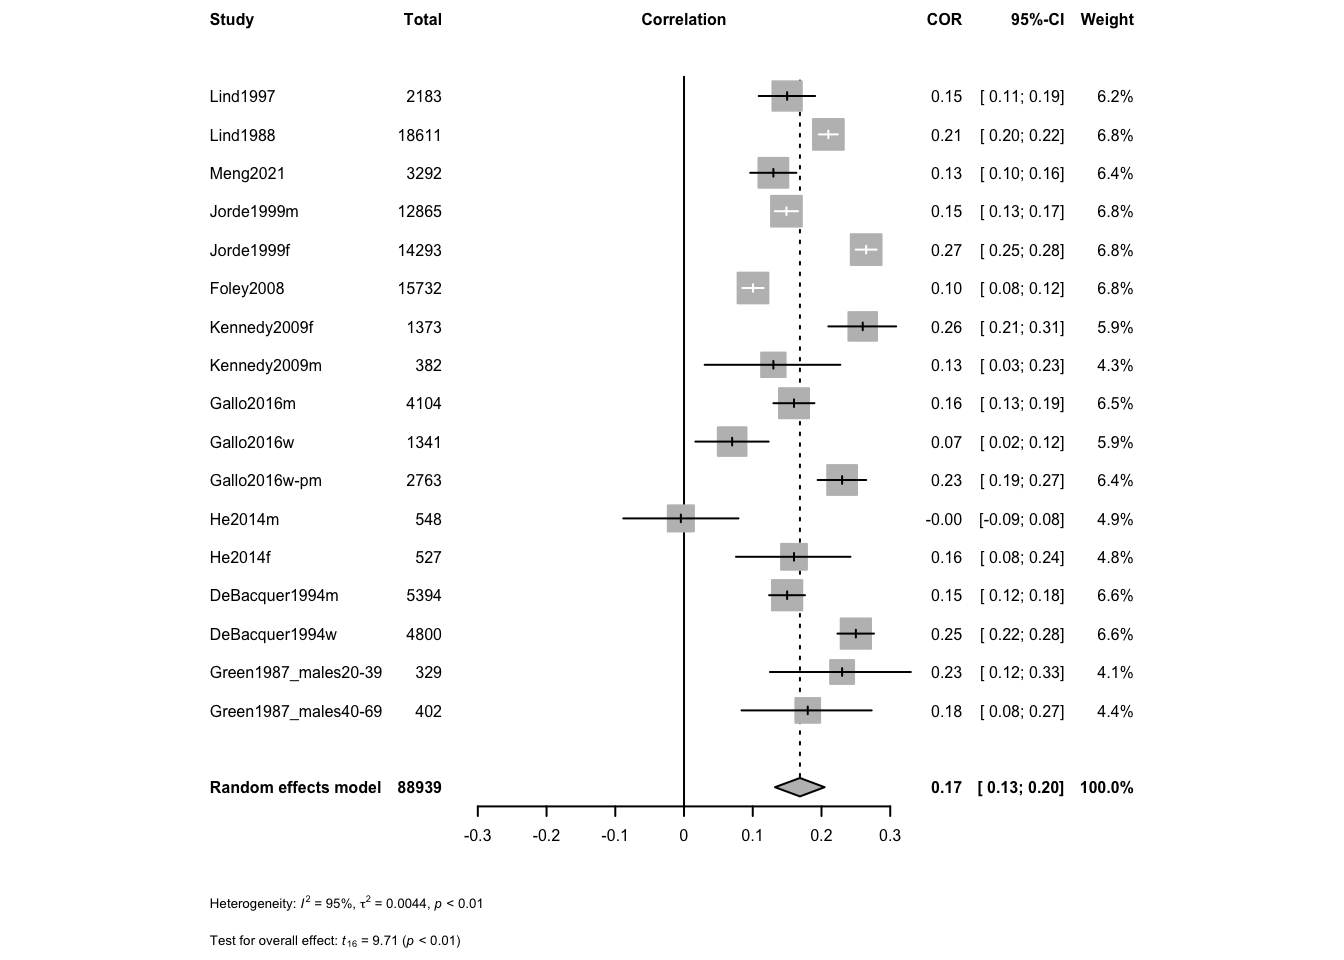
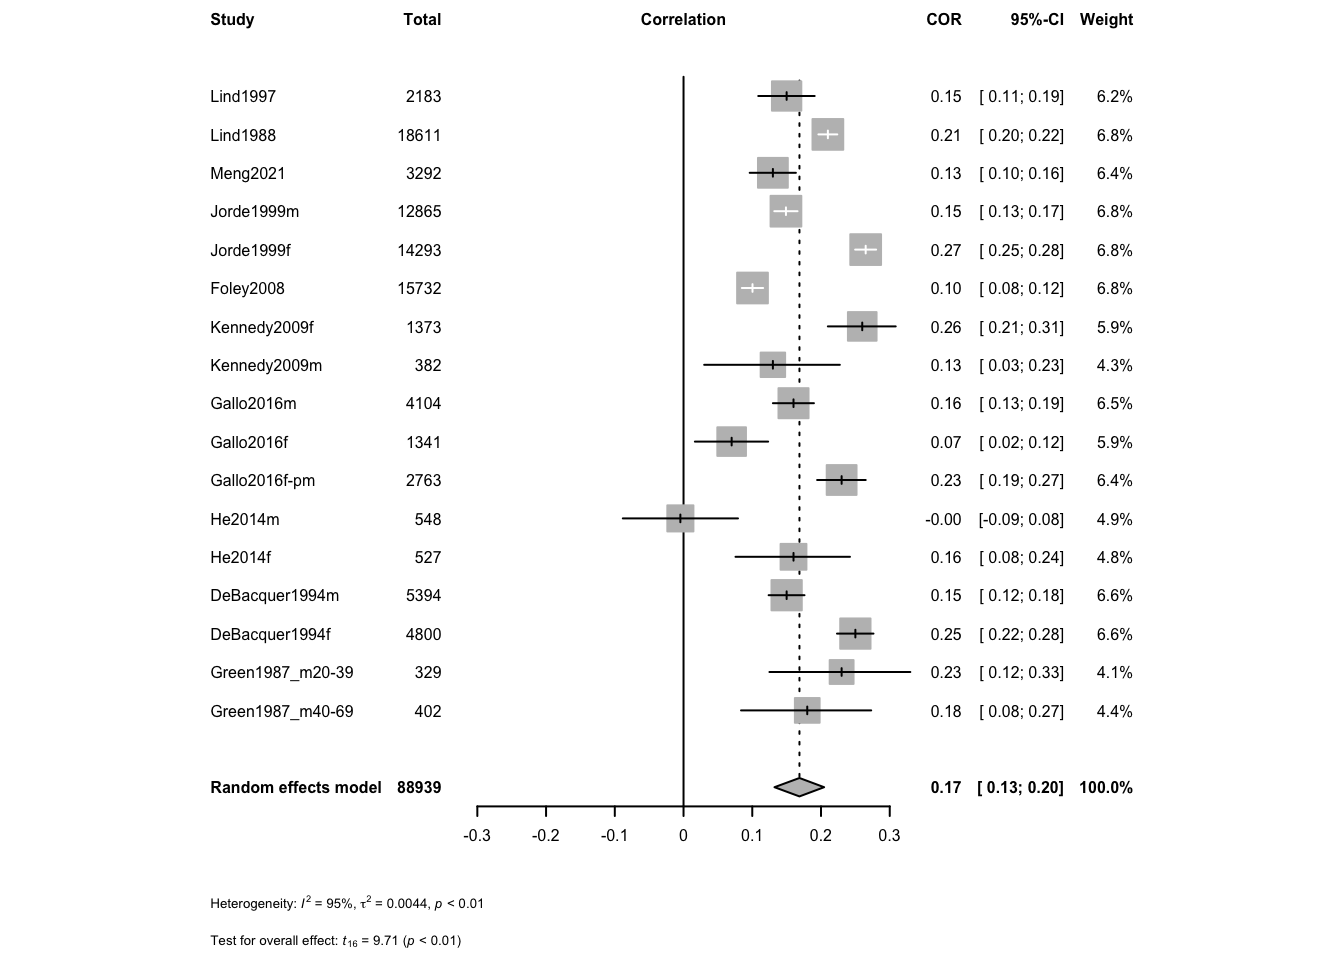
Re-ran meta-analysis updating names of the studies for consistency

diff --git a/Meta Analysis/cholesterol-calcium.html b/Meta Analysis/cholesterol-calcium.html
@@ -151,7 +151,7 @@ code span.wa { color: #60a0b0; font-weight: bold; font-style: italic; } /* Warni
 <span id="cb1-2"><a href="#cb1-2" aria-hidden="true" tabindex="-1"></a><span class="fu">library</span>(readr)</span>
 <span id="cb1-3"><a href="#cb1-3" aria-hidden="true" tabindex="-1"></a>data <span class="ot">&lt;-</span> <span class="fu">read_csv</span>(data.sheet)<span class="co">#from a google sheet</span></span></code><button title="Copy to Clipboard" class="code-copy-button"><i class="bi"></i></button></pre></div>
 </div>
-<p>The data can be found in the google sheet https://docs.google.com/spreadsheets/d/e/2PACX-1vTyvQnc6bLRLGT6QXEMHxiAQVbK_zag_JIAjvYjTMXINcqdkBwglmg_mlj_k9ml9QsrNQl-tZgy8ACl/pub?gid=1100702568&amp;single=true&amp;output=csv. This script can be found in /Users/davebrid/Documents/GitHub/PrecisionNutrition/Meta Analysis and was most recently run on Wed Dec 7 16:34:27 2022</p>
+<p>The data can be found in the google sheet https://docs.google.com/spreadsheets/d/e/2PACX-1vTyvQnc6bLRLGT6QXEMHxiAQVbK_zag_JIAjvYjTMXINcqdkBwglmg_mlj_k9ml9QsrNQl-tZgy8ACl/pub?gid=1100702568&amp;single=true&amp;output=csv. This script can be found in /Users/davebrid/Documents/GitHub/PrecisionNutrition/Meta Analysis and was most recently run on Thu Apr 20 09:18:10 2023</p>
 </section>
 <section id="meta-analysis" class="level2">
 <h2 class="anchored" data-anchor-id="meta-analysis">Meta Analysis</h2>
@@ -186,9 +186,9 @@ code span.wa { color: #60a0b0; font-weight: bold; font-style: italic; } /* Warni
 <div class="cell">
 <div class="sourceCode cell-code" id="cb3"><pre class="sourceCode r code-with-copy"><code class="sourceCode r"><span id="cb3-1"><a href="#cb3-1" aria-hidden="true" tabindex="-1"></a><span class="fu">sessionInfo</span>()</span></code><button title="Copy to Clipboard" class="code-copy-button"><i class="bi"></i></button></pre></div>
 <div class="cell-output cell-output-stdout">
-<pre><code>R version 4.2.0 (2022-04-22)
+<pre><code>R version 4.2.2 (2022-10-31)
 Platform: x86_64-apple-darwin17.0 (64-bit)
-Running under: macOS Big Sur/Monterey 10.16
+Running under: macOS Big Sur ... 10.16
 
 Matrix products: default
 BLAS:   /Library/Frameworks/R.framework/Versions/4.2/Resources/lib/libRblas.0.dylib
@@ -201,24 +201,24 @@ attached base packages:
 [1] stats     graphics  grDevices utils     datasets  methods   base     
 
 other attached packages:
-[1] tidyr_1.2.1 meta_6.0-0  readr_2.1.3 knitr_1.41 
+[1] tidyr_1.3.0 meta_6.1-0  readr_2.1.3 knitr_1.41 
 
 loaded via a namespace (and not attached):
- [1] tidyselect_1.2.0   xfun_0.35          purrr_0.3.5        splines_4.2.0     
- [5] lattice_0.20-45    vctrs_0.5.1        generics_0.1.3     htmltools_0.5.3   
+ [1] tidyselect_1.2.0   xfun_0.36          purrr_1.0.1        splines_4.2.2     
+ [5] lattice_0.20-45    vctrs_0.5.2        generics_0.1.3     htmltools_0.5.4   
  [9] yaml_2.3.6         utf8_1.2.2         rlang_1.0.6        pillar_1.8.1      
 [13] nloptr_2.0.3       DBI_1.1.3          glue_1.6.2         bit64_4.0.5       
-[17] lifecycle_1.0.3    stringr_1.4.1      htmlwidgets_1.5.4  evaluate_0.18     
-[21] tzdb_0.3.0         fastmap_1.1.0      metafor_3.8-1      parallel_4.2.0    
+[17] lifecycle_1.0.3    stringr_1.5.0      htmlwidgets_1.6.1  evaluate_0.19     
+[21] tzdb_0.3.0         fastmap_1.1.0      metafor_3.8-1      parallel_4.2.2    
 [25] curl_4.3.3         fansi_1.0.3        Rcpp_1.0.9         vroom_1.6.0       
-[29] jsonlite_1.8.3     bit_4.0.5          lme4_1.1-31        hms_1.1.2         
-[33] digest_0.6.30      stringi_1.7.8      dplyr_1.0.10       CompQuadForm_1.4.3
-[37] grid_4.2.0         mathjaxr_1.6-0     cli_3.4.1          tools_4.2.0       
+[29] jsonlite_1.8.4     bit_4.0.5          lme4_1.1-31        hms_1.1.2         
+[33] digest_0.6.31      stringi_1.7.12     dplyr_1.0.10       CompQuadForm_1.4.3
+[37] grid_4.2.2         mathjaxr_1.6-0     cli_3.6.0          tools_4.2.2       
 [41] magrittr_2.0.3     tibble_3.1.8       crayon_1.5.2       pkgconfig_2.0.3   
 [45] ellipsis_0.3.2     MASS_7.3-58.1      Matrix_1.5-3       xml2_1.3.3        
-[49] assertthat_0.2.1   minqa_1.2.5        rmarkdown_2.18     rstudioapi_0.14   
-[53] R6_2.5.1           boot_1.3-28        metadat_1.2-0      nlme_3.1-160      
-[57] compiler_4.2.0    </code></pre>
+[49] assertthat_0.2.1   minqa_1.2.5        rmarkdown_2.19     rstudioapi_0.14   
+[53] R6_2.5.1           boot_1.3-28.1      metadat_1.2-0      nlme_3.1-161      
+[57] compiler_4.2.2    </code></pre>
 </div>
 </div>
 </section>

diff --git a/Meta Analysis/cholesterol-calcium.md b/Meta Analysis/cholesterol-calcium.md
@@ -29,7 +29,7 @@ data <- read_csv(data.sheet)#from a google sheet
 :::
 
 
-The data can be found in the google sheet https://docs.google.com/spreadsheets/d/e/2PACX-1vTyvQnc6bLRLGT6QXEMHxiAQVbK_zag_JIAjvYjTMXINcqdkBwglmg_mlj_k9ml9QsrNQl-tZgy8ACl/pub?gid=1100702568&single=true&output=csv. This script can be found in /Users/davebrid/Documents/GitHub/PrecisionNutrition/Meta Analysis and was most recently run on Wed Dec  7 16:34:27 2022
+The data can be found in the google sheet https://docs.google.com/spreadsheets/d/e/2PACX-1vTyvQnc6bLRLGT6QXEMHxiAQVbK_zag_JIAjvYjTMXINcqdkBwglmg_mlj_k9ml9QsrNQl-tZgy8ACl/pub?gid=1100702568&single=true&output=csv. This script can be found in /Users/davebrid/Documents/GitHub/PrecisionNutrition/Meta Analysis and was most recently run on Thu Apr 20 09:18:10 2023
 
 ## Meta Analysis
 
@@ -77,9 +77,9 @@ sessionInfo()
 
 ::: {.cell-output .cell-output-stdout}
 ```
-R version 4.2.0 (2022-04-22)
+R version 4.2.2 (2022-10-31)
 Platform: x86_64-apple-darwin17.0 (64-bit)
-Running under: macOS Big Sur/Monterey 10.16
+Running under: macOS Big Sur ... 10.16
 
 Matrix products: default
 BLAS:   /Library/Frameworks/R.framework/Versions/4.2/Resources/lib/libRblas.0.dylib
@@ -92,24 +92,24 @@ attached base packages:
 [1] stats     graphics  grDevices utils     datasets  methods   base     
 
 other attached packages:
-[1] tidyr_1.2.1 meta_6.0-0  readr_2.1.3 knitr_1.41 
+[1] tidyr_1.3.0 meta_6.1-0  readr_2.1.3 knitr_1.41 
 
 loaded via a namespace (and not attached):
- [1] tidyselect_1.2.0   xfun_0.35          purrr_0.3.5        splines_4.2.0     
- [5] lattice_0.20-45    vctrs_0.5.1        generics_0.1.3     htmltools_0.5.3   
+ [1] tidyselect_1.2.0   xfun_0.36          purrr_1.0.1        splines_4.2.2     
+ [5] lattice_0.20-45    vctrs_0.5.2        generics_0.1.3     htmltools_0.5.4   
  [9] yaml_2.3.6         utf8_1.2.2         rlang_1.0.6        pillar_1.8.1      
 [13] nloptr_2.0.3       DBI_1.1.3          glue_1.6.2         bit64_4.0.5       
-[17] lifecycle_1.0.3    stringr_1.4.1      htmlwidgets_1.5.4  evaluate_0.18     
-[21] tzdb_0.3.0         fastmap_1.1.0      metafor_3.8-1      parallel_4.2.0    
+[17] lifecycle_1.0.3    stringr_1.5.0      htmlwidgets_1.6.1  evaluate_0.19     
+[21] tzdb_0.3.0         fastmap_1.1.0      metafor_3.8-1      parallel_4.2.2    
 [25] curl_4.3.3         fansi_1.0.3        Rcpp_1.0.9         vroom_1.6.0       
-[29] jsonlite_1.8.3     bit_4.0.5          lme4_1.1-31        hms_1.1.2         
-[33] digest_0.6.30      stringi_1.7.8      dplyr_1.0.10       CompQuadForm_1.4.3
-[37] grid_4.2.0         mathjaxr_1.6-0     cli_3.4.1          tools_4.2.0       
+[29] jsonlite_1.8.4     bit_4.0.5          lme4_1.1-31        hms_1.1.2         
+[33] digest_0.6.31      stringi_1.7.12     dplyr_1.0.10       CompQuadForm_1.4.3
+[37] grid_4.2.2         mathjaxr_1.6-0     cli_3.6.0          tools_4.2.2       
 [41] magrittr_2.0.3     tibble_3.1.8       crayon_1.5.2       pkgconfig_2.0.3   
 [45] ellipsis_0.3.2     MASS_7.3-58.1      Matrix_1.5-3       xml2_1.3.3        
-[49] assertthat_0.2.1   minqa_1.2.5        rmarkdown_2.18     rstudioapi_0.14   
-[53] R6_2.5.1           boot_1.3-28        metadat_1.2-0      nlme_3.1-160      
-[57] compiler_4.2.0    
+[49] assertthat_0.2.1   minqa_1.2.5        rmarkdown_2.19     rstudioapi_0.14   
+[53] R6_2.5.1           boot_1.3-28.1      metadat_1.2-0      nlme_3.1-161      
+[57] compiler_4.2.2    
 ```
 :::
 :::
